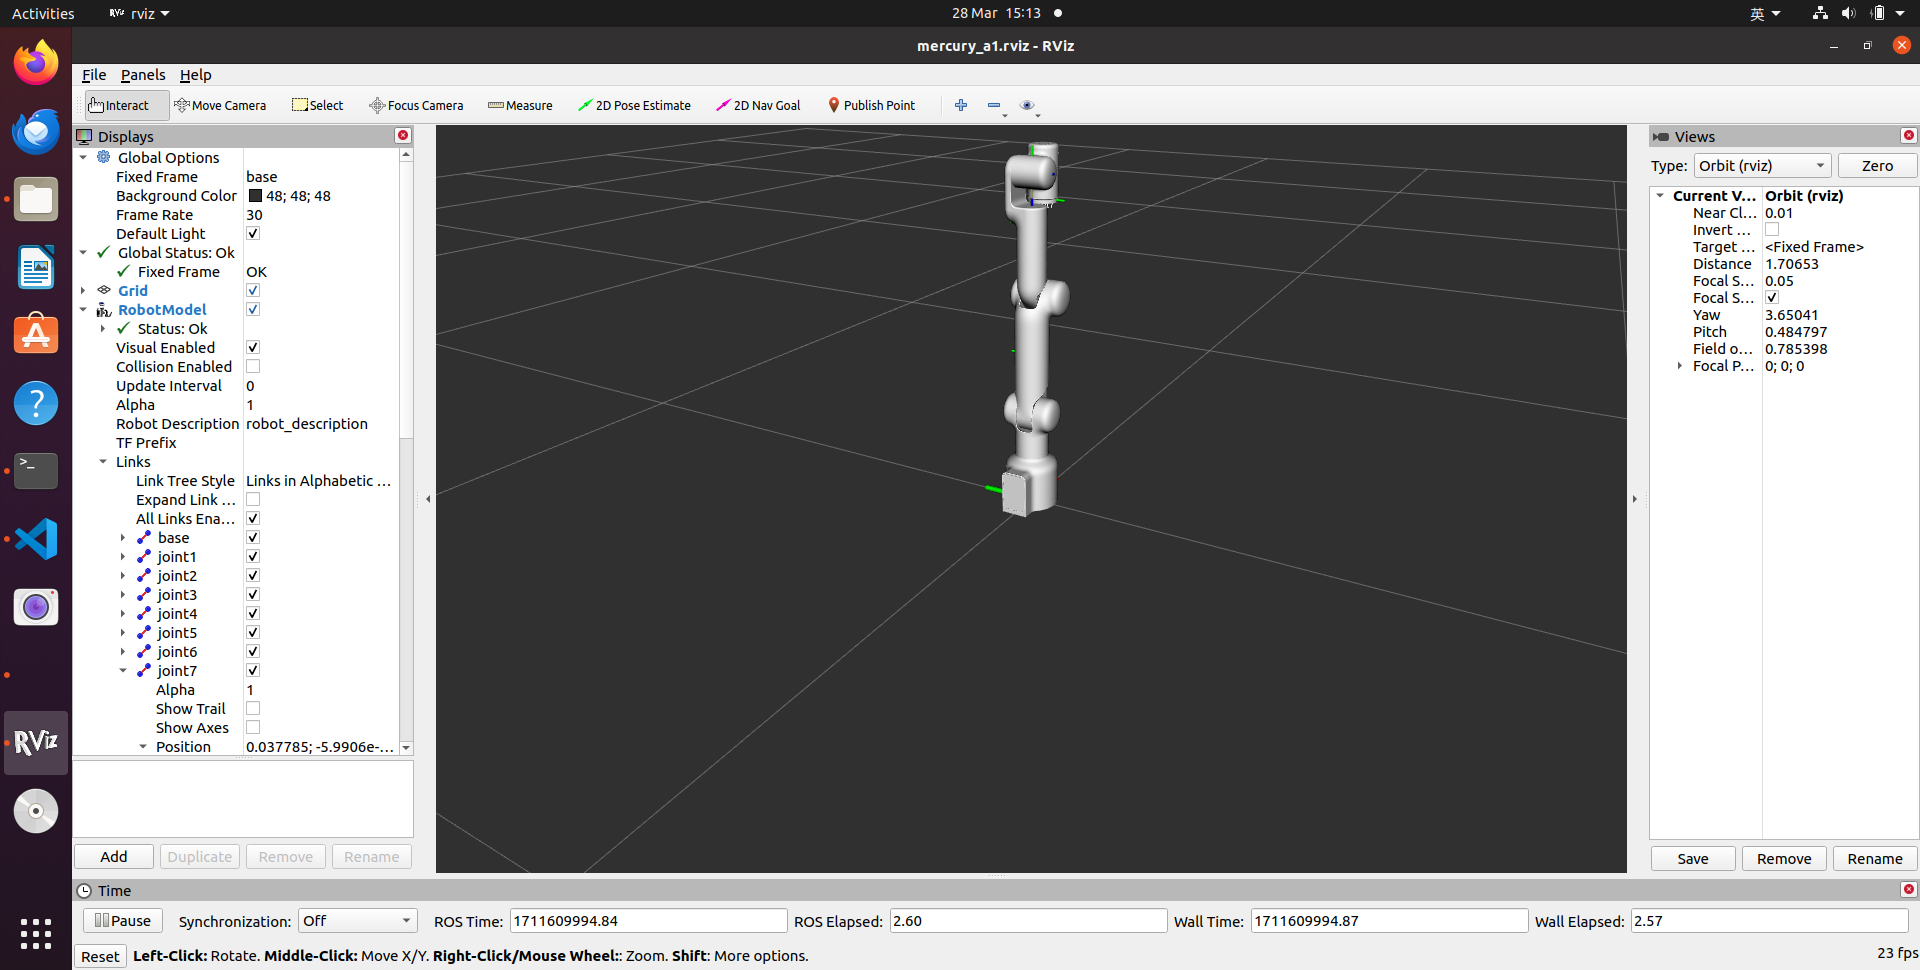
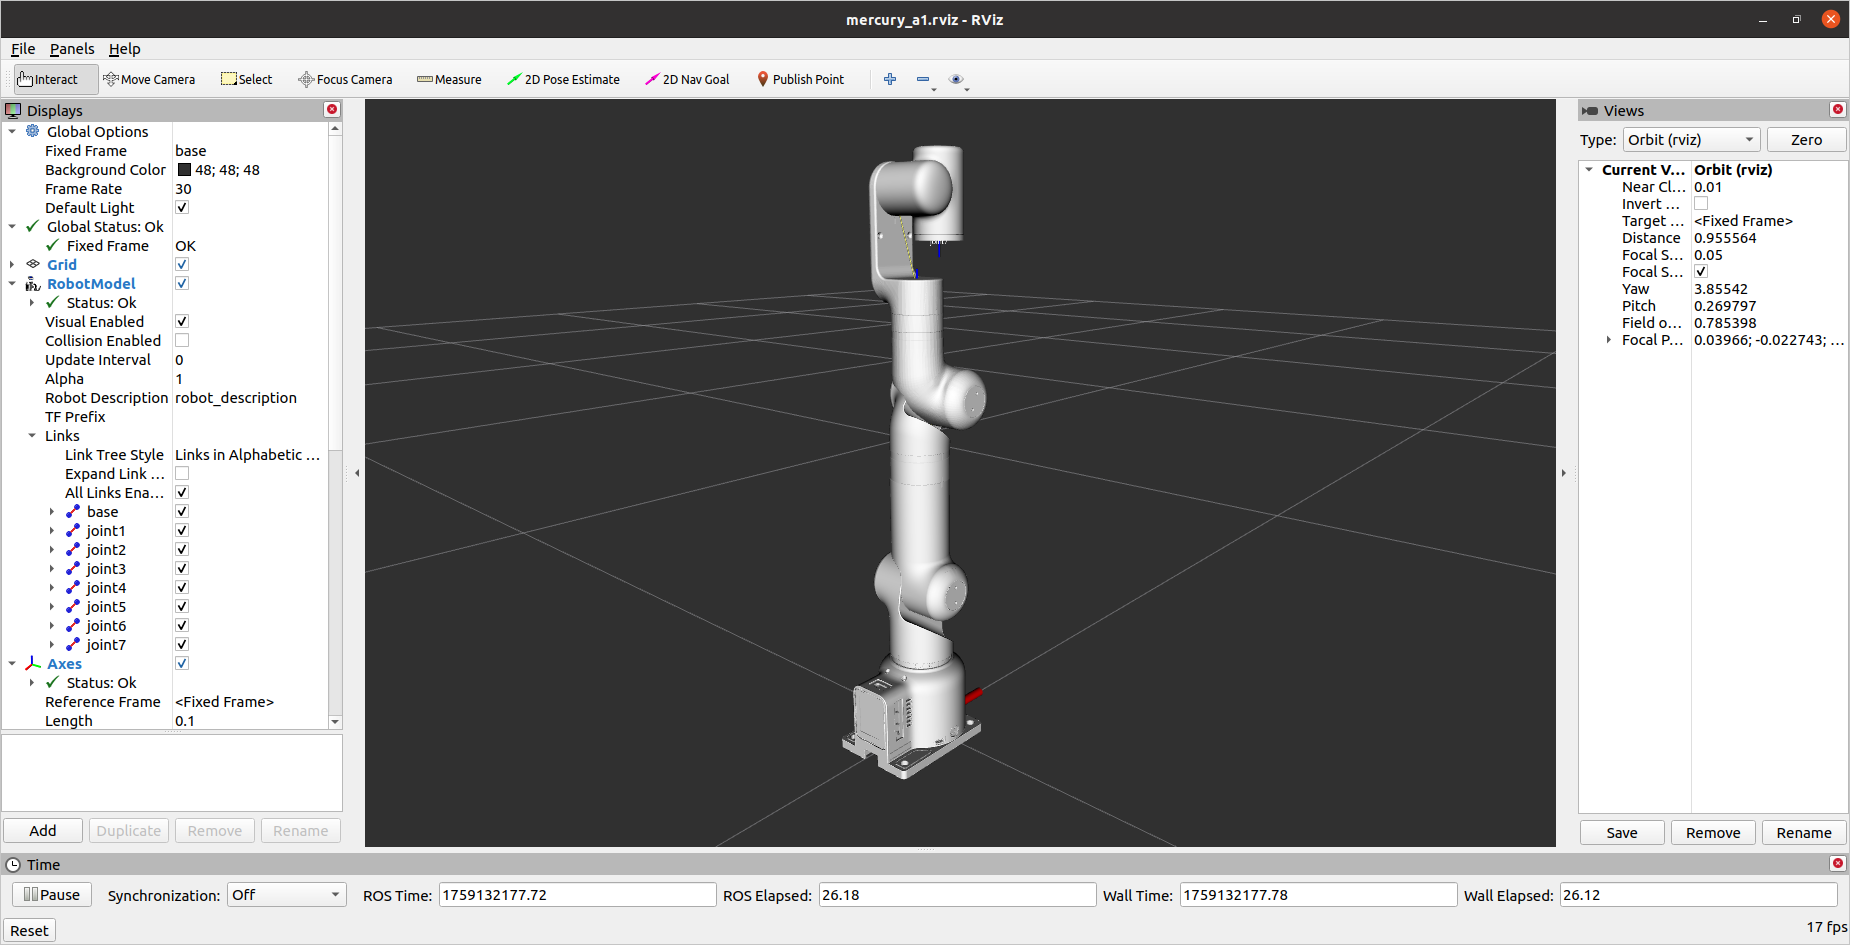
docs(A1-ros):update readme use

diff --git a/README.md b/README.md
@@ -6,11 +6,11 @@
 [![jaywcjlove/sb](https://jaywcjlove.github.io/sb/lang/chinese.svg)](https://docs.elephantrobotics.com/docs/gitbook/12-ApplicationBaseROS/)
 [![jaywcjlove/sb](https://jaywcjlove.github.io/sb/lang/english.svg)](https://docs.elephantrobotics.com/docs/gitbook-en/12-ApplicationBaseROS/)
 
-[中文文档](https://docs.elephantrobotics.com/docs/gitbook/12-ApplicationBaseROS/) | [English Documentation](https://docs.elephantrobotics.com/docs/gitbook-en/12-ApplicationBaseROS/)
+[中文文档](https://docs.elephantrobotics.com/docs/Mercury_A1_cn/11-ApplicationBaseROS/11.1-ROS1/) | [English Documentation](https://docs.elephantrobotics.com/docs/Mercury_A1_en/11-ApplicationBaseROS/11.1-ROS1/)
 
 Control or simulate Mercury series robots in ROS.
 
-![Demo](./demo_img/Screenshot-1.png)
+![Demo](./demo_img/mercuryA1/A1-ROS.png)
 
 **Notes**:
 
